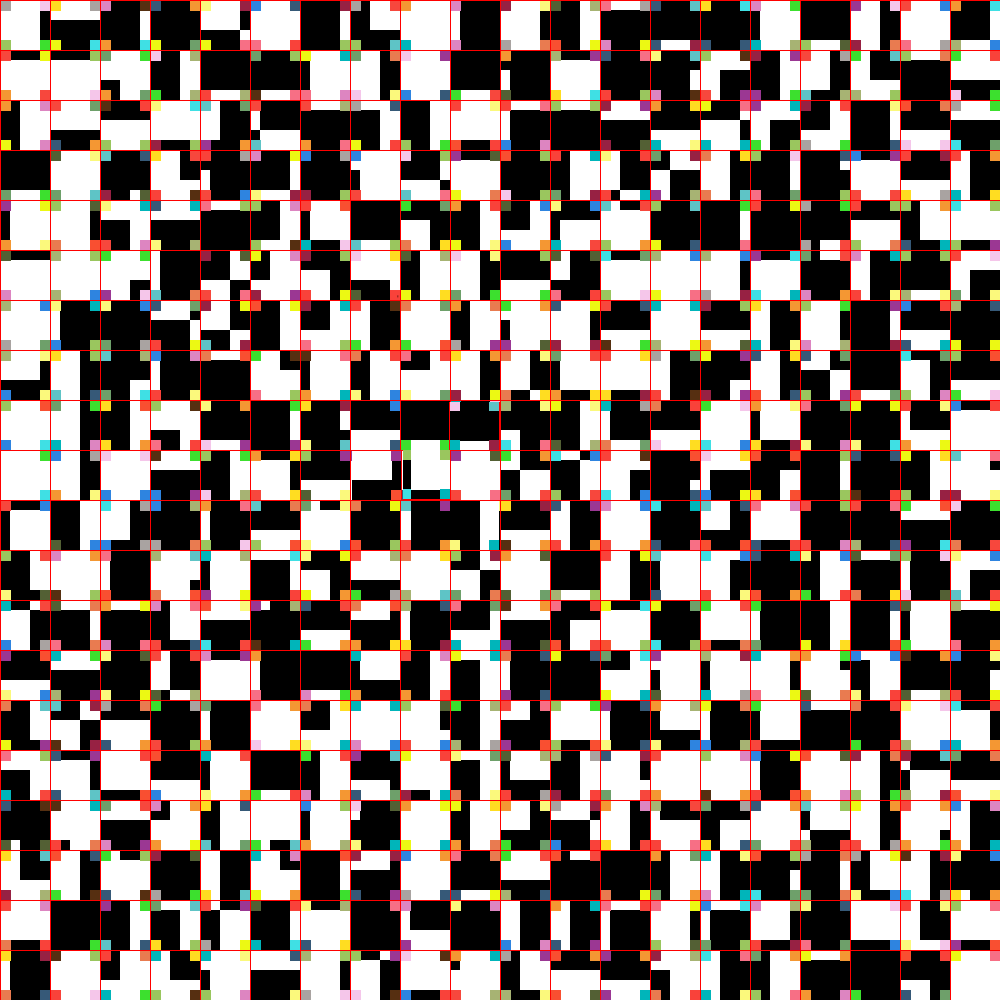
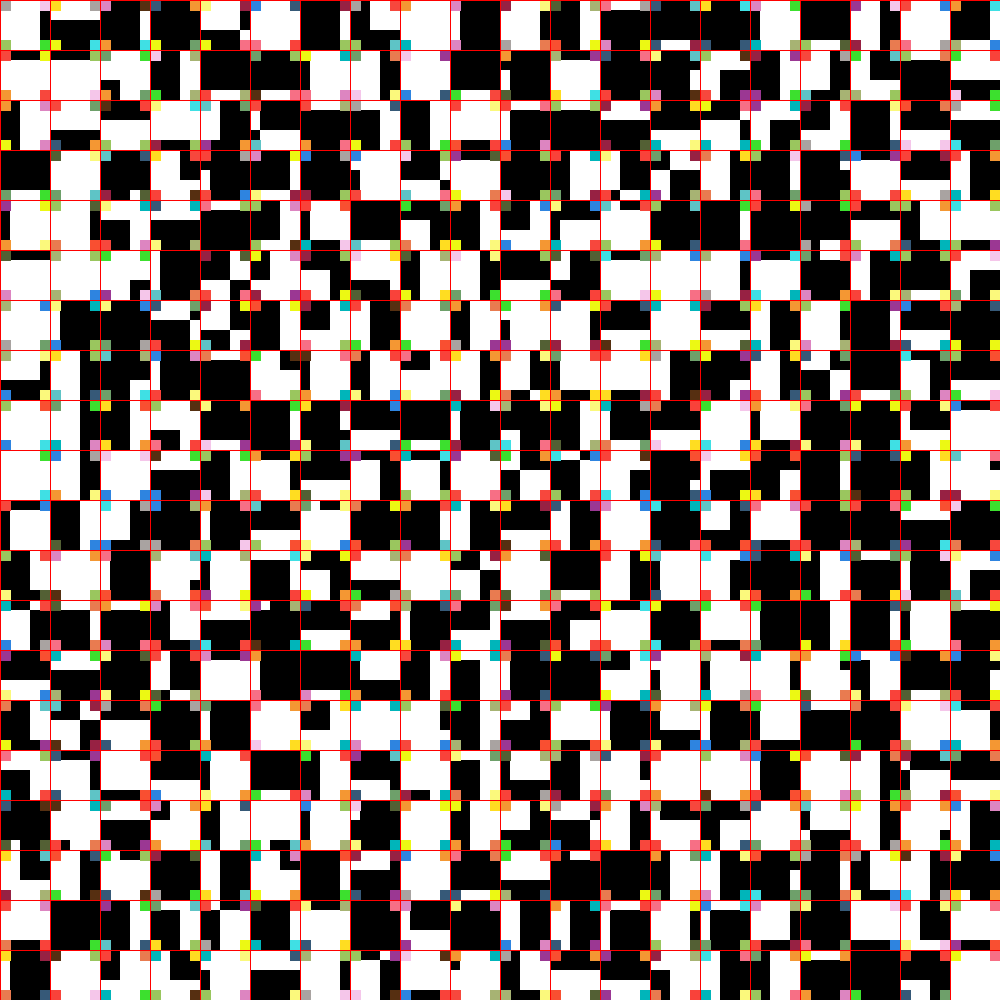
Final version

Changed region(s): [[0.341, 0.403, 0.496, 0.558]]

diff --git a/main.go b/main.go
@@ -32,7 +32,7 @@ func main() {
 	//testPrintAll()
 	formedImage[0][0] = findFirst()
 	fillSquares(0, 1)
-	writeToFile(generateImage())
+	//writeToFile(generateImage())
 }
 
 func testPrintAll() {
@@ -63,7 +63,7 @@ func fillSquares(i, j int) bool { // i = line, j = column
 	}
 
 	// find next empty
-	if i == -1 || j == -1 {
+	if i == -1 || j == -1 || i == 20 || j == 20 {
 		for ix, line := range formedImage {
 			found := false
 			for jx, s := range line {
@@ -83,7 +83,7 @@ func fillSquares(i, j int) bool { // i = line, j = column
 
 	fmt.Println(i, j)
 
-	if j == 12 || i == 12 {
+	if j == 19 && i == 12 {
 		writeToFile(generateImage())
 	}
 
@@ -111,31 +111,45 @@ func fits(i, j int, s *square) bool {
 	// fill first line
 	if i == 0 {
 		previousLeft := formedImage[i][j-1]
-		if previousLeft == nil {
-			//fmt.Println("left null")
+		if j == 19 {
+			if isBlackOrWhite(s.getUpperLeftColor()) &&
+				isBlackOrWhite(s.getUpperRightColor()) &&
+				!isBlackOrWhite(s.getBottomLeftColor()) &&
+				isBlackOrWhite(s.getBottomRightColor()) &&
+				s.getBottomLeftColor() == previousLeft.getBottomRightColor() {
+				return true
+			}
+		} else {
+			if isBlackOrWhite(s.getUpperLeftColor()) &&
+				isBlackOrWhite(s.getUpperRightColor()) &&
+				!isBlackOrWhite(s.getBottomLeftColor()) &&
+				!isBlackOrWhite(s.getBottomRightColor()) &&
+				s.getBottomLeftColor() == previousLeft.getBottomRightColor() {
+				return true
+			}
 		}
 
-		if isBlackOrWhite(s.getUpperLeftColor()) &&
-			isBlackOrWhite(s.getUpperRightColor()) &&
-			!isBlackOrWhite(s.getBottomLeftColor()) &&
-			!isBlackOrWhite(s.getBottomRightColor()) &&
-			s.getBottomLeftColor() == previousLeft.getBottomRightColor() {
-			return true
-		}
 	}
 
 	// fill first column
 	if j == 0 {
 		previousTop := formedImage[i-1][j]
-		if previousTop == nil {
-			//fmt.Println("top null")
-		}
-		if isBlackOrWhite(s.getUpperLeftColor()) &&
-			isBlackOrWhite(s.getBottomLeftColor()) &&
-			!isBlackOrWhite(s.getUpperRightColor()) &&
-			!isBlackOrWhite(s.getBottomRightColor()) &&
-			s.getUpperRightColor() == previousTop.getBottomRightColor() {
-			return true
+		if i == 19 {
+			if isBlackOrWhite(s.getUpperLeftColor()) &&
+				isBlackOrWhite(s.getBottomLeftColor()) &&
+				!isBlackOrWhite(s.getUpperRightColor()) &&
+				isBlackOrWhite(s.getBottomRightColor()) &&
+				s.getUpperRightColor() == previousTop.getBottomRightColor() {
+				return true
+			}
+		} else {
+			if isBlackOrWhite(s.getUpperLeftColor()) &&
+				isBlackOrWhite(s.getBottomLeftColor()) &&
+				!isBlackOrWhite(s.getUpperRightColor()) &&
+				!isBlackOrWhite(s.getBottomRightColor()) &&
+				s.getUpperRightColor() == previousTop.getBottomRightColor() {
+				return true
+			}
 		}
 	}
 
